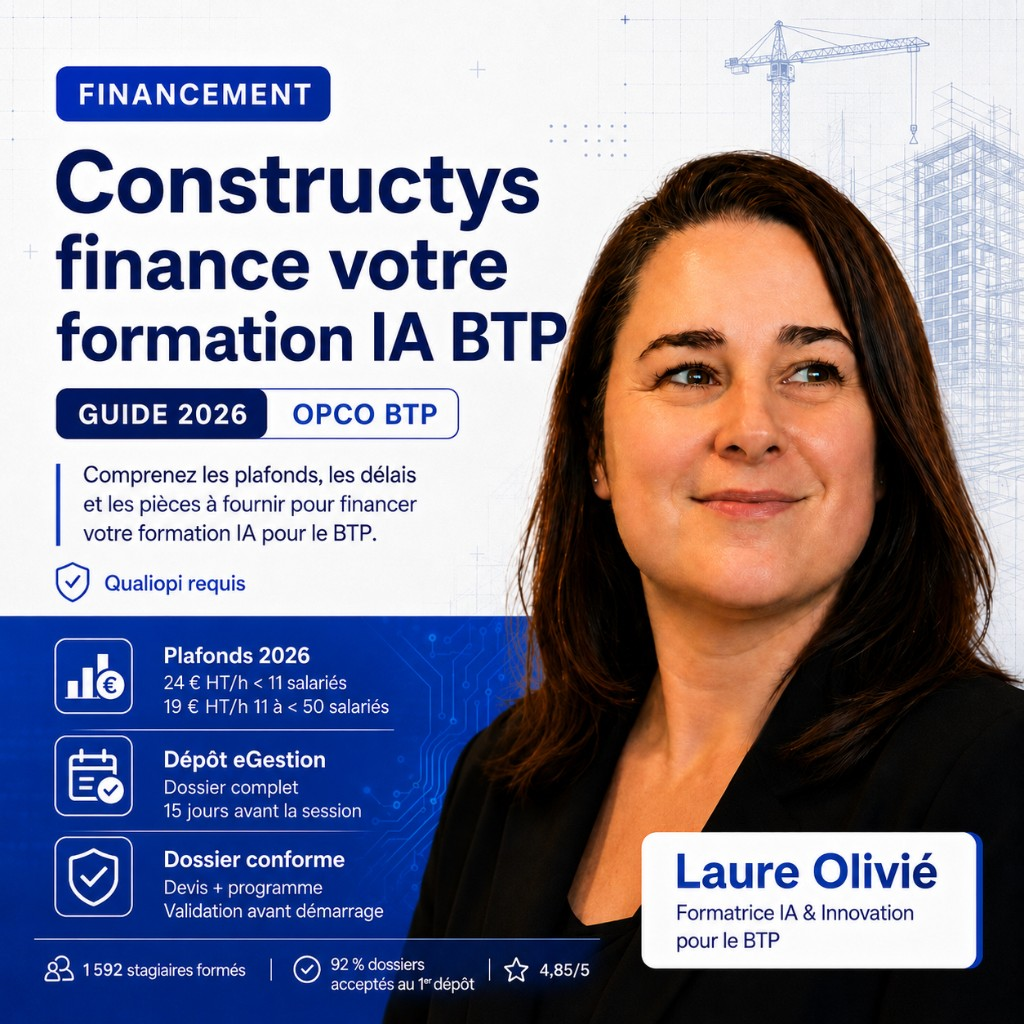
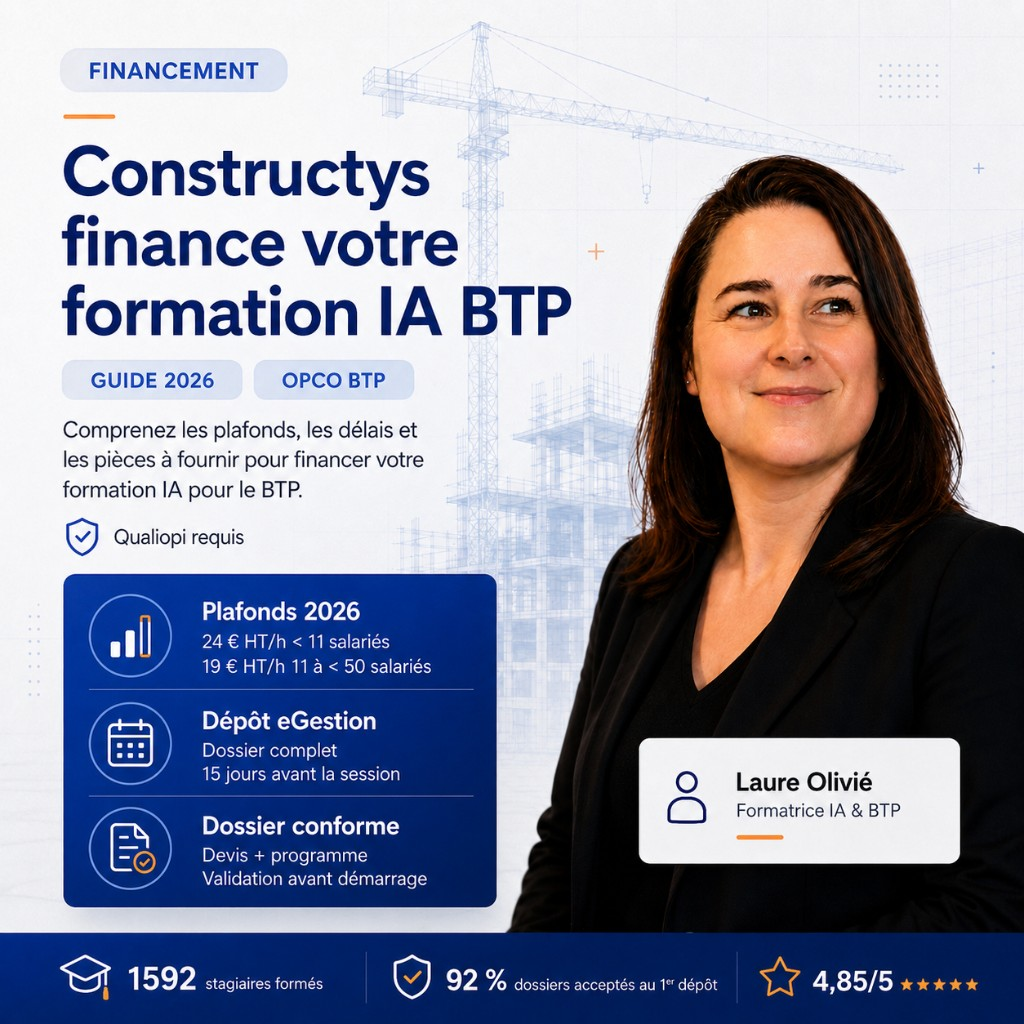
Mettre à jour la bannière hero financement Constructys 2026.
Nouveau visuel plafonds eGestion et stats OFC ; hero page et JSON-LD en WebP.

diff --git a/app/financement-constructys-formation-ia-btp/page.tsx b/app/financement-constructys-formation-ia-btp/page.tsx
@@ -41,11 +41,11 @@ const H1 =
   'Financer une formation IA pour le BTP avec Constructys en 2026 — guide OPCO, plafonds et dossier eGestion';
 
 const HERO_FINANCEMENT = {
-  src: '/images/financement-constructys-formation-ia-btp-hero-2026.png',
+  src: '/images/financement-constructys-formation-ia-btp-hero-2026.webp',
   width: 1024,
   height: 1024,
   alt:
-    'Constructys finance votre formation IA BTP — plafonds 2026, guide OPCO, Laure Olivié formatrice IA BTP',
+    'Constructys finance votre formation IA BTP — plafonds 2026, eGestion, Laure Olivié formatrice IA BTP Qualiopi',
 } as const;
 
 const FINANCEMENT_TOC = [

diff --git a/lib/schema-financement-constructys-page.ts b/lib/schema-financement-constructys-page.ts
@@ -66,7 +66,7 @@ export function getFinancementConstructysUnifiedJsonLd(): Record<string, unknown
     datePublished: '2026-01-15',
     dateModified: '2026-06-01',
     authorName: SITE_CONFIG.name,
-    image: '/images/financement-constructys-formation-ia-btp-hero-2026.png',
+    image: '/images/financement-constructys-formation-ia-btp-hero-2026.webp',
   });
   const article = stripJsonLdContext(articleRaw as Record<string, unknown>);
   article['@id'] = `${pageUrl}#article`;
